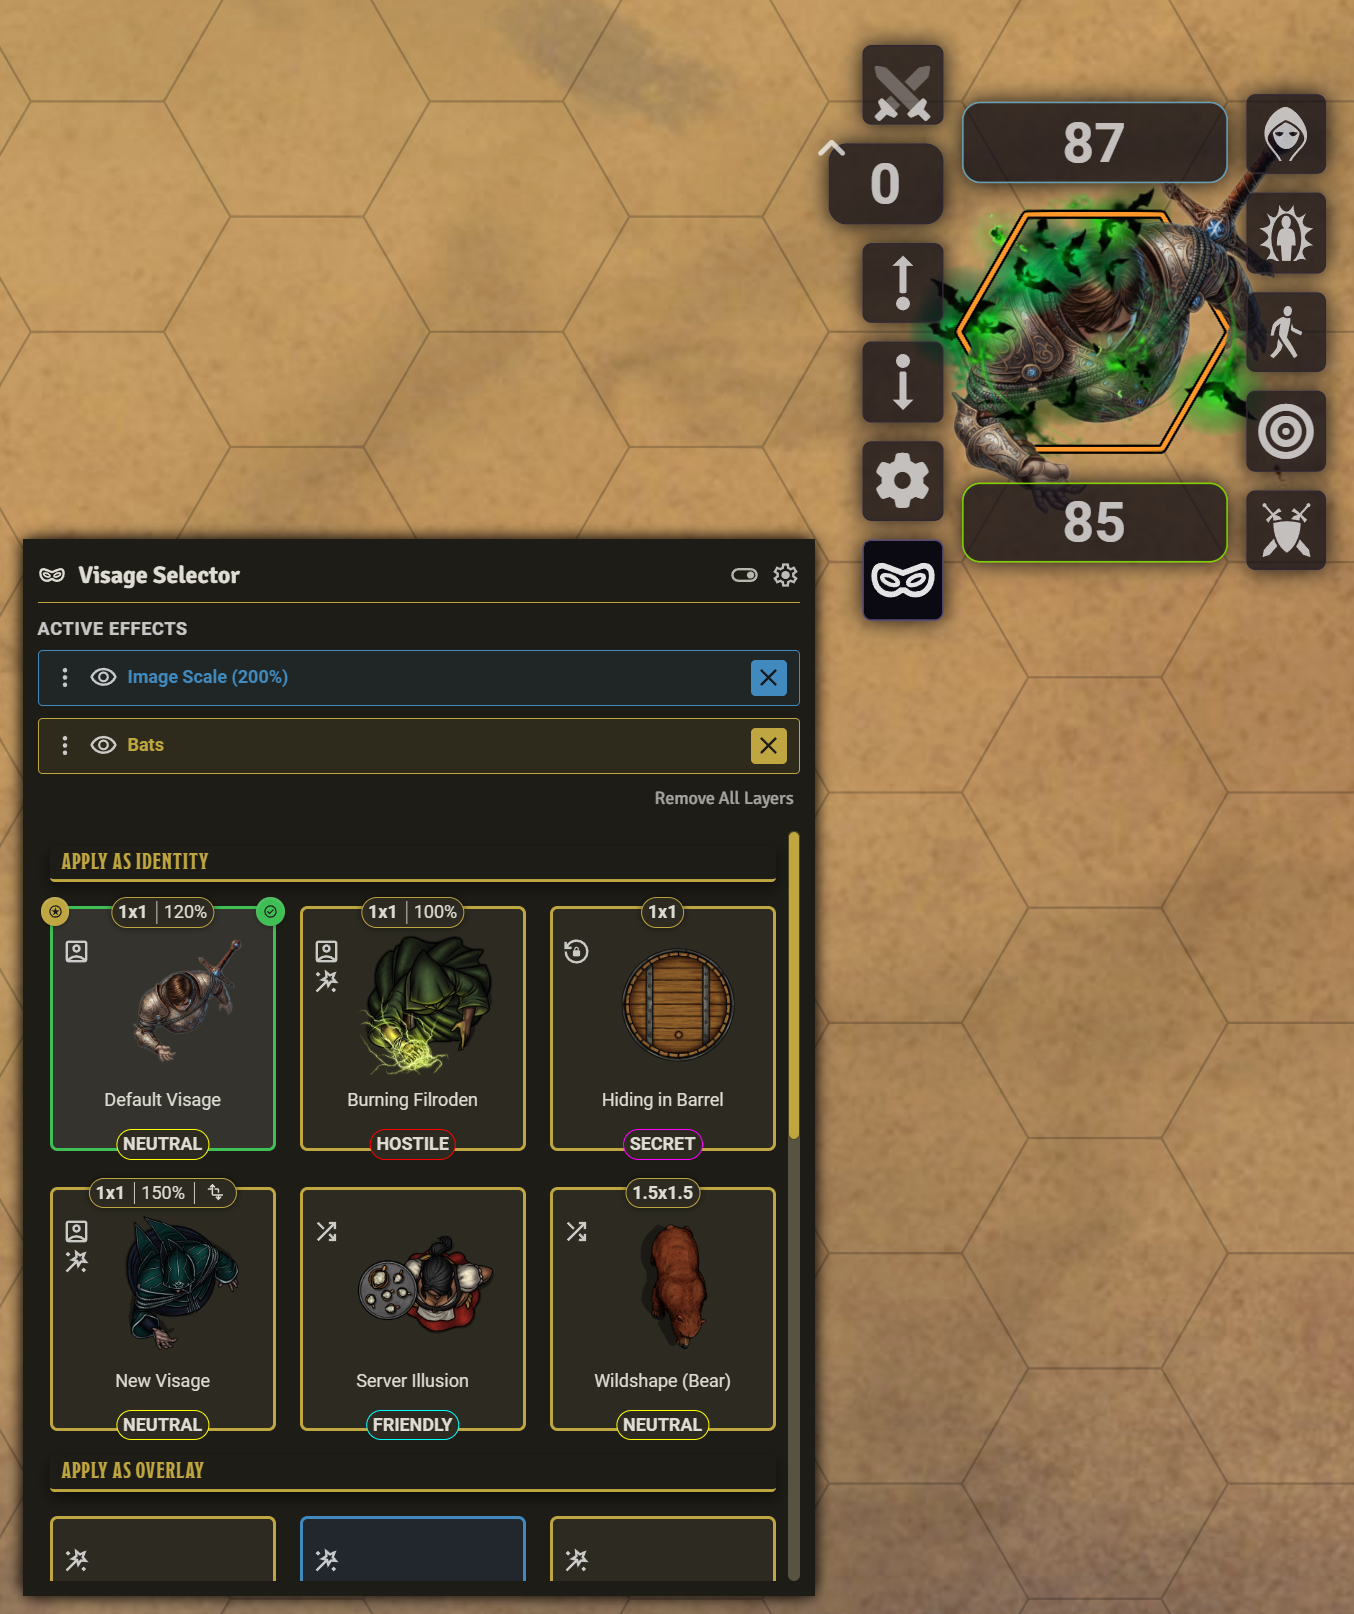
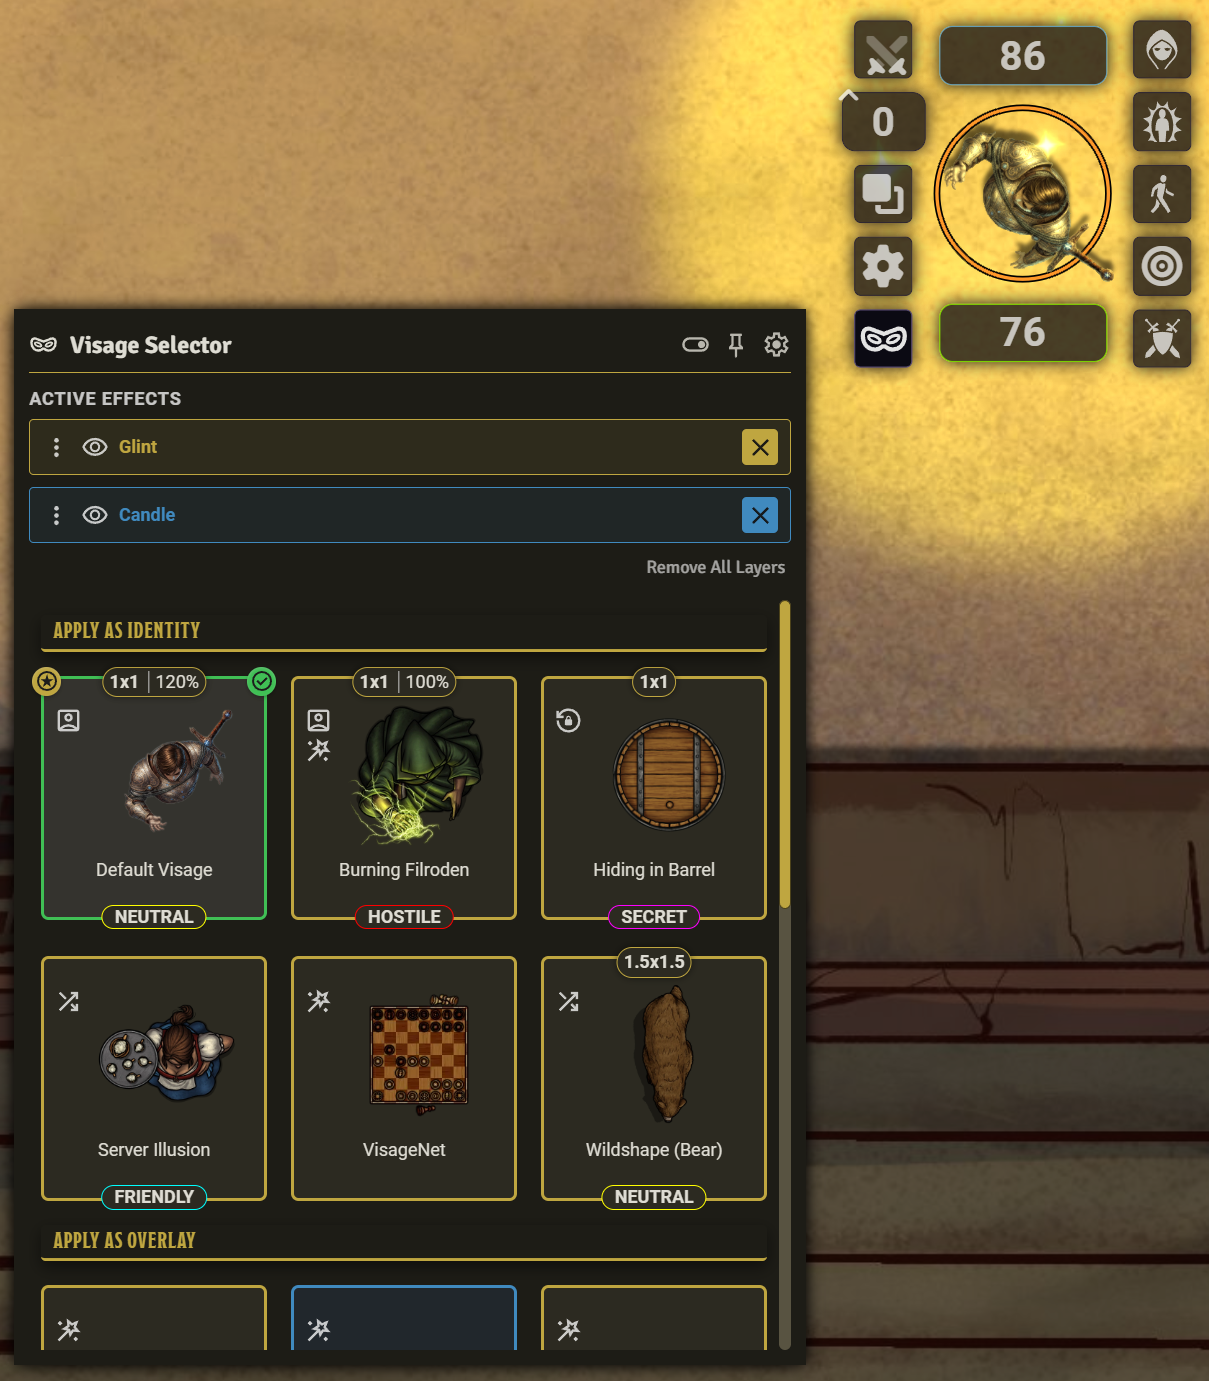
Docs: screenshot updates and fix typos in README

diff --git a/README.md b/README.md
@@ -54,7 +54,7 @@ While other modules focus on transient animations (a sword swinging or a firebal
 - **Integrated Media Pipeline:** Visage seamlessly hooks into the **[Sequencer](https://foundryvtt.com/packages/sequencer)** and **[Token Magic FX](https://foundryvtt.com/packages/tokenmagic)** modules. Bind particle animations, looping sound effects, and WebGL shaders to your Visages. When the Visage is removed, the audio, visuals, and filters clean themselves up automatically.
 - **Dynamic Token Ring Support:** Fully supports Foundry's Dynamic Token Rings. Override subject textures, background colours, and toggle ring effects (Pulse, Wave, Invisibility) on the fly.
 - **Global & Local Libraries:** GMs can build a "Global Library" of universal effects to use across the world. Set some of these Visages to "public" and they become visible for players to use. Players have a "Local Library" tied to their specific character sheet for their personal transformations.
-- **Quick Visages:** Define a default image folder in your game settings to unlock the `Quick Visage` feature. The Selector HUD will automatically display any images from that folder (and its sub-folders) that match the token's name, allowing you to create a new Identity from a selected image and apply it immediately.
+- **Quick Visages:** Define a default image folder in your game settings to unlock the **Quick Visage** feature. The Selector HUD will automatically display any images from that folder (and its sub-folders) that match the token's name, allowing you to create a new Identity from a selected image and apply it immediately.
 
 ### The Interface
 
@@ -64,11 +64,11 @@ Visage was built with User Experience in mind, offering three distinct tools:
 
    ![Visage Local Library](https://github.com/Filroden/visage/blob/main/images/local_library.png)
 
-2. **The Visage Editor:** A powerful workstation for to build Visages. It features a live preview stage so you can see your token's appearance and effects before you ever save or apply them.
+2. **The Visage Editor:** A powerful workstation to build Visages. It features a live preview stage so you can see your token's appearance and effects before you ever save or apply them.
 
    ![Visage Global Editor](https://github.com/Filroden/visage/blob/main/images/global_editor.png)
 
-3. **The Selector HUD:** A transient quick-menu that appears next to a token on the canvas. It allows players to quickly swap their active Visages, toggle visibility, reorder their active stack via drag-and-drop and create `Quick Visages`. The HUD includes a `Pin toggle`, allowing you to switch it from a floating panel to a standard, resizable window.
+3. **The Selector HUD:** A transient quick-menu that appears next to a token on the canvas. It allows players to quickly swap their active Visages, toggle visibility, reorder their active stack via drag-and-drop and create **Quick Visages**. The HUD includes a **Pin toggle**, allowing you to switch it from a floating panel to a standard, resizable window.
 
    ![Visage Selector HUD](https://github.com/Filroden/visage/blob/main/images/visage_selector_hud.png)
 